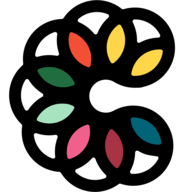
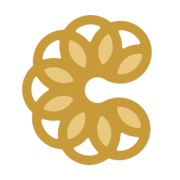
feat(ui): gold circls brand mark across admin, partners, consumer
Redraw the title-bar C-lettermark as an inline SVG with a transparent
background, recolor to the brand gold palette (petals #e7c87d, ring
#c79a3a), and drop the embedded wordmark. Add a shared BrandMark
component per app and use it everywhere the circls brand appears:
sidebars, auth pages, consumer header/footer, and legal-page eyebrow.
Replace the old multicolor favicons with the gold mark (icon.svg +
regenerated apple-icon.png); remove stale icon.png.

diff --git a/apps/admin/components/BrandMark.tsx b/apps/admin/components/BrandMark.tsx
@@ -1,0 +1,34 @@
+// circls brand mark — gold lettermark (two-tone), transparent background.
+// Source: brand C-lettermark recolored to the brand gold palette
+// (petals #e7c87d / gold-500, C-ring #c79a3a / gold-600). No wordmark text.
+export function BrandMark({
+  className,
+  title = 'circls',
+}: {
+  className?: string;
+  title?: string;
+}) {
+  return (
+    <svg
+      xmlns="http://www.w3.org/2000/svg"
+      viewBox="0 0 1080 1080"
+      role="img"
+      aria-label={title}
+      className={className}
+    >
+      <g>
+      <path fill="#e7c87d" d="M664.2,140.4c5.3-3.9,12.8-2.4,16.2,3.1,10.7,17.3,18.1,36.8,21.5,58.1,9.6,60.3-16.3,118.3-62.2,152.5-5.2,3.9-12.8,2.4-16.2-3.1-29.9-48.9-32.3-112.3-.8-164.7,11-18.5,25.2-33.8,41.5-45.8h0Z"/>
+      <path fill="#e7c87d" d="M509.2,369.1c-1.5,6.4-8.2,10.2-14.5,8.1-54.3-18.2-97-65.3-106.6-125.6-3.4-21.2-2.4-42.2,2.4-61.9,1.6-6.5,8.5-10,14.8-7.9,1.6.6,3.3,1.1,4.9,1.7,17.6,6.5,34,16.3,48.6,28.9,32,27.8,51.3,66.4,54.3,108.8,1.1,16.4-.2,32.5-3.9,48Z"/>
+      <path fill="#e7c87d" d="M391,425.2c11.4,11.8,20.8,25,28,39.3,2.9,5.8.2,13-5.9,15.4-53.3,21-116.2,12.4-162.5-27.7-16-13.9-28.8-30.5-38-48.9-2.9-5.9-.2-13.1,5.9-15.5,18.3-7.3,38-11.1,58.3-11.1s1.8,0,2.7,0c42.5.7,82,17.9,111.5,48.4Z"/>
+      <path fill="#e7c87d" d="M208.1,665.8c9.8-18.2,23.2-34.3,39.6-47.7,29.4-23.8,64.7-35.4,99.9-35.4s43.3,4.4,63.4,13.1c6,2.6,8.5,9.8,5.4,15.6-7.6,14-17.4,27-29.3,38.4-30.5,29.5-70.6,45.5-113,44.6-21.6-.4-42.2-5-60.8-13.2-5.9-2.6-8.3-9.8-5.2-15.4h0"/>
+      <path fill="#e7c87d" d="M378.6,823.3c11.6-60,55.8-105.6,110.6-122,6.3-1.9,12.9,2.2,14.2,8.6,11.3,56.1-8.1,116.5-55.5,154.9-16.7,13.5-35.4,23.1-54.8,28.9-6.3,1.9-12.9-2.1-14.2-8.5-4.1-20.1-4.2-41-.2-61.8h0Z"/>
+      <path fill="#e7c87d" d="M690.5,883.6c-4.1,21.1-12.2,40.4-23.4,57.3-3.6,5.5-11.2,6.7-16.3,2.6-15.8-12.6-29.5-28.4-40-47.2-29.7-53.5-25.2-116.8,6.3-164.6,3.6-5.5,11.2-6.7,16.3-2.6,44.8,35.7,68.8,94.5,57.2,154.5Z"/>
+      <path fill="#e7c87d" d="M835.5,803.1c-55.8-21.4-94.2-72.7-101-130.1-.8-6.5,4.3-12.3,10.8-12.5,57.3-1.4,113.5,28.2,143.1,81.7,10.4,18.8,16.7,38.8,18.9,58.9.7,6.5-4.3,12.3-10.9,12.5-20.7.6-41.3-3-61-10.5h0Z"/>
+      <path fill="#e7c87d" d="M844.1,287.2c20.1-6.9,40.8-9.7,61.3-8.5,6.5.4,11.4,6.4,10.5,12.9-2.9,20.1-9.8,39.9-20.9,58.4-21.8,36.4-56.5,62.1-97.7,72.4-15.9,4-32.1,5.4-48,4.5-6.5-.4-11.5-6.4-10.5-12.8,8.5-57.3,48.2-107.1,105.3-126.8h0Z"/>
+      </g>
+      <g>
+      <path fill="#c79a3a" d="M640.1,622l-.4.2c-18.8,10.5-40.7,13.9-61.8,9.8h-.4c0,0-.3-.1-.3-.1-21.2-4-40.2-15.4-53.8-32.2l-.3-.4-.3-.4c-13.5-16.7-20.8-37.6-20.4-59.1v-1c.3-21.5,8.2-42.2,22.3-58.4l.3-.4.3-.4c14.1-16.3,33.5-27,54.7-30.3h.4c0,0,.3-.1.3-.1,21.3-3.5,43.1.8,61.5,11.9l.5.3c35.5,21.3,75.2,32.2,115.6,32.2s36.9-2.3,55.1-6.9c29.2-7.3,56.2-20.1,79.7-37.5,23.5-17.4,43.5-39.5,59.1-65.3,64-106.6,29.2-245.5-77.4-309.4-56.2-33.7-121.3-40-179.7-22.8-3.6,1-7.4.3-10.3-2C637.1,12,574.3-6.5,509.6,3.8c-64.6,10.3-118.6,47.2-152.2,97.9-2.1,3.1-5.5,5-9.2,5.1-3.1,0-6.2.2-9.4.5-60.1,4.3-114.9,31.7-154.4,77.2-39.5,45.5-58.9,103.7-54.7,163.8.2,3.1.5,6.1.9,9.2.4,3.7-1,7.3-3.8,9.8-2.3,2-4.6,4.2-6.8,6.3-43.3,41.9-67.7,98.1-68.7,158.4-1.1,65.5,25.9,125,69.9,166.9,2.7,2.6,4,6.3,3.4,10-.4,3.1-.8,6.2-1.2,9.3-6.2,59.9,11.2,118.7,49.1,165.5,41.3,50.9,100.2,79.1,160.9,82.9,3.7.2,7,2.2,9,5.4,1.6,2.7,3.3,5.3,5.1,7.9,33.8,49.9,84.9,83.7,144.1,95.2,14.4,2.8,28.8,4.1,42.9,4.1,49,0,95.7-16.1,133.7-44.1,3-2.2,6.8-2.8,10.4-1.6,22.9,7.6,47,11.5,71.3,11.5,37,0,74.5-9.1,109.1-28.3,108.8-60.4,148.1-198,87.7-306.7-60.4-108.8-198-148.1-306.7-87.7h0ZM759.1,109.2c27.8,0,55.9,7.3,81.4,22.6,26.4,15.8,46.5,38.1,59.5,63.7,3.8,7.4-1.7,16-10,16.2-22.9.6-45.8,4.7-67.7,12.2-12.3,4.2-24,9.4-35.1,15.6-7.6,4.2-16.8-1.3-16.6-10,.2-12.6-.8-25.5-2.8-38.4-3.8-23.4-11-45.5-21.1-65.6-3.7-7.3,1.7-16.1,10-16.2.8,0,1.6,0,2.4,0h0ZM844.1,286.9c20.1-6.9,40.8-9.7,61.3-8.5,6.5.4,11.4,6.4,10.5,12.9-2.9,20.1-9.8,39.9-20.9,58.4-21.8,36.4-56.5,62.1-97.7,72.4-15.9,4-32.1,5.4-48,4.5-6.5-.4-11.5-6.4-10.5-12.8,8.5-57.3,48.2-107.1,105.3-126.8h0ZM664.2,140.4c5.3-3.9,12.8-2.4,16.2,3.1,10.7,17.3,18.1,36.8,21.5,58.1,9.6,60.3-16.3,118.3-62.2,152.5-5.2,3.9-12.8,2.4-16.2-3.1-29.9-48.9-32.3-112.3-.8-164.7,11-18.5,25.2-33.8,41.5-45.8h0ZM520.1,69.7c8.4-1.4,16.8-2,25.1-2,21.5,0,42.2,4.4,61.2,12.4,7.6,3.2,9.3,13.4,3.1,18.8-16.9,14.9-31.9,32.6-44.1,53-6.7,11.2-12.3,22.7-16.9,34.5-3.1,8-13.7,9.7-19.1,3.1-8.1-9.8-17.1-19-26.9-27.6-17.7-15.4-37.4-27.7-58.3-36.8-7.5-3.3-9.4-13.2-3.2-18.6,21.6-18.8,48.6-32,79-36.8h0ZM390.6,189.6c1.6-6.5,8.5-10,14.8-7.9,1.6.6,3.3,1.1,4.9,1.8,17.6,6.5,34,16.3,48.6,28.9,32,27.8,51.3,66.4,54.3,108.7,1.1,16.4-.2,32.5-3.9,48-1.5,6.4-8.2,10.2-14.5,8.1-54.3-18.2-97-65.3-106.6-125.6-3.4-21.2-2.4-42.2,2.4-61.9h0ZM391,425.2c11.4,11.8,20.8,25,28,39.3,2.9,5.8.2,13-5.9,15.4-53.3,21-116.2,12.4-162.5-27.7-16-13.9-28.8-30.5-38-48.9-2.9-5.9-.2-13.1,5.9-15.5,18.3-7.3,38-11.1,58.3-11.1s1.8,0,2.7,0c42.5.7,82,17.9,111.5,48.4ZM234.7,228.1c19.7-22.6,44.8-38.9,72.8-47.6,7.9-2.4,15.7,4.2,14.5,12.4-3.4,22.3-3.4,45.6.3,69,2.1,12.9,5.2,25.3,9.2,37.3,2.8,8.2-4.2,16.2-12.7,14.6-12.5-2.3-25.3-3.6-38.3-3.9-23.5-.4-46.5,2.8-68.4,9.4-7.9,2.4-15.7-4.1-14.4-12.3,4.6-29,17.2-56.3,36.9-79.1h0ZM159.4,617.2c-4.5,6.8-14.6,6.9-18.9-.1-14.8-24.6-23.1-53.4-22.6-84.2.5-30.1,9.3-58.8,25.3-83.5,4.5-6.9,14.6-6.5,18.9.5,11.9,19.5,26.9,37.2,44.6,52.6,9.9,8.6,20.3,16.1,31.1,22.7,7.4,4.5,7.2,15.2-.3,19.4-11,6.2-21.7,13.4-31.8,21.6-18.2,14.8-33.8,32-46.3,51h0ZM313.1,810.6c-4.5,23-5.3,46.2-2.7,68.8,1,8.2-6.8,14.7-14.6,12-27-9.3-51.9-26.1-71.3-50-18.9-23.3-30.6-50.8-34.2-79.9-1-8.2,6.9-14.8,14.8-12.1,21.4,7.2,44.3,11.3,68,11.7h3.9c11.6,0,23.1-.9,34.5-2.6,8.5-1.3,15.3,7,12.3,15.1-4.5,11.8-8,24.2-10.5,37h0ZM274.2,694.4c-21.6-.4-42.2-5-60.8-13.2-5.9-2.6-8.3-9.8-5.2-15.4h0c9.8-18.2,23.2-34.3,39.6-47.7,29.4-23.8,64.7-35.4,99.9-35.4s43.3,4.4,63.4,13.1c6,2.6,8.5,9.8,5.4,15.6-7.6,14-17.4,27-29.3,38.4-30.5,29.5-70.6,45.5-113,44.6h0ZM378.6,823.3c11.6-60,55.8-105.6,110.6-122,6.3-1.9,12.9,2.2,14.2,8.6,11.3,56.1-8.1,116.5-55.5,154.9-16.7,13.5-35.4,23.1-54.8,28.9-6.3,1.9-12.9-2.1-14.2-8.5-4.1-20.1-4.2-41-.2-61.8h0ZM504.4,1009.4c-29.5-5.7-56.1-19.3-77.6-39.2-6-5.6-4.2-15.8,3.5-18.8,21-8.2,41.2-19.8,59.6-34.8,10.1-8.2,19.4-17.2,27.7-26.7,5.7-6.5,16.2-4.5,19,3.7,4.2,11.9,9.4,23.7,15.8,35.1,11.5,20.8,25.8,39,42.3,54.5,6,5.6,3.9,15.7-3.7,18.7-26.7,10.2-56.5,13.3-86.6,7.5h0ZM690.5,883.6c-4.1,21.1-12.2,40.4-23.4,57.3-3.6,5.5-11.2,6.7-16.3,2.6-15.8-12.6-29.5-28.4-40-47.2-29.7-53.5-25.2-116.8,6.3-164.6,3.6-5.5,11.2-6.7,16.3-2.6,44.8,35.7,68.8,94.5,57.2,154.5ZM826.7,958.1c-26.7,14.9-55.9,21.1-84.5,19.8-8.3-.4-13.5-9.3-9.5-16.6,10.8-19.8,18.8-41.6,23.3-64.9,2.5-12.8,3.8-25.7,4.1-38.3.2-8.6,9.5-13.8,17-9.4,10.9,6.5,22.5,12.1,34.6,16.8,18.6,7.1,53.1,11.7,71.8,13.8,6.5.7,10,7.7,7,13.4-13.9,26.7-35.5,49.8-63.8,65.5h0ZM835.5,803.1c-55.8-21.4-94.2-72.7-101-130.1-.8-6.5,4.3-12.3,10.8-12.5,57.3-1.4,113.5,28.2,143.1,81.7,10.4,18.8,16.7,38.8,18.9,58.9.7,6.5-4.3,12.3-10.9,12.5-20.7.6-41.3-3-61-10.5h0Z"/>
+      </g>
+    </svg>
+  );
+}

diff --git a/apps/consumer/lib/ui/BrandMark.tsx b/apps/consumer/lib/ui/BrandMark.tsx
@@ -1,0 +1,34 @@
+// circls brand mark — gold lettermark (two-tone), transparent background.
+// Source: brand C-lettermark recolored to the brand gold palette
+// (petals #e7c87d / gold-500, C-ring #c79a3a / gold-600). No wordmark text.
+export function BrandMark({
+  className,
+  title = 'circls',
+}: {
+  className?: string;
+  title?: string;
+}) {
+  return (
+    <svg
+      xmlns="http://www.w3.org/2000/svg"
+      viewBox="0 0 1080 1080"
+      role="img"
+      aria-label={title}
+      className={className}
+    >
+      <g>
+      <path fill="#e7c87d" d="M664.2,140.4c5.3-3.9,12.8-2.4,16.2,3.1,10.7,17.3,18.1,36.8,21.5,58.1,9.6,60.3-16.3,118.3-62.2,152.5-5.2,3.9-12.8,2.4-16.2-3.1-29.9-48.9-32.3-112.3-.8-164.7,11-18.5,25.2-33.8,41.5-45.8h0Z"/>
+      <path fill="#e7c87d" d="M509.2,369.1c-1.5,6.4-8.2,10.2-14.5,8.1-54.3-18.2-97-65.3-106.6-125.6-3.4-21.2-2.4-42.2,2.4-61.9,1.6-6.5,8.5-10,14.8-7.9,1.6.6,3.3,1.1,4.9,1.7,17.6,6.5,34,16.3,48.6,28.9,32,27.8,51.3,66.4,54.3,108.8,1.1,16.4-.2,32.5-3.9,48Z"/>
+      <path fill="#e7c87d" d="M391,425.2c11.4,11.8,20.8,25,28,39.3,2.9,5.8.2,13-5.9,15.4-53.3,21-116.2,12.4-162.5-27.7-16-13.9-28.8-30.5-38-48.9-2.9-5.9-.2-13.1,5.9-15.5,18.3-7.3,38-11.1,58.3-11.1s1.8,0,2.7,0c42.5.7,82,17.9,111.5,48.4Z"/>
+      <path fill="#e7c87d" d="M208.1,665.8c9.8-18.2,23.2-34.3,39.6-47.7,29.4-23.8,64.7-35.4,99.9-35.4s43.3,4.4,63.4,13.1c6,2.6,8.5,9.8,5.4,15.6-7.6,14-17.4,27-29.3,38.4-30.5,29.5-70.6,45.5-113,44.6-21.6-.4-42.2-5-60.8-13.2-5.9-2.6-8.3-9.8-5.2-15.4h0"/>
+      <path fill="#e7c87d" d="M378.6,823.3c11.6-60,55.8-105.6,110.6-122,6.3-1.9,12.9,2.2,14.2,8.6,11.3,56.1-8.1,116.5-55.5,154.9-16.7,13.5-35.4,23.1-54.8,28.9-6.3,1.9-12.9-2.1-14.2-8.5-4.1-20.1-4.2-41-.2-61.8h0Z"/>
+      <path fill="#e7c87d" d="M690.5,883.6c-4.1,21.1-12.2,40.4-23.4,57.3-3.6,5.5-11.2,6.7-16.3,2.6-15.8-12.6-29.5-28.4-40-47.2-29.7-53.5-25.2-116.8,6.3-164.6,3.6-5.5,11.2-6.7,16.3-2.6,44.8,35.7,68.8,94.5,57.2,154.5Z"/>
+      <path fill="#e7c87d" d="M835.5,803.1c-55.8-21.4-94.2-72.7-101-130.1-.8-6.5,4.3-12.3,10.8-12.5,57.3-1.4,113.5,28.2,143.1,81.7,10.4,18.8,16.7,38.8,18.9,58.9.7,6.5-4.3,12.3-10.9,12.5-20.7.6-41.3-3-61-10.5h0Z"/>
+      <path fill="#e7c87d" d="M844.1,287.2c20.1-6.9,40.8-9.7,61.3-8.5,6.5.4,11.4,6.4,10.5,12.9-2.9,20.1-9.8,39.9-20.9,58.4-21.8,36.4-56.5,62.1-97.7,72.4-15.9,4-32.1,5.4-48,4.5-6.5-.4-11.5-6.4-10.5-12.8,8.5-57.3,48.2-107.1,105.3-126.8h0Z"/>
+      </g>
+      <g>
+      <path fill="#c79a3a" d="M640.1,622l-.4.2c-18.8,10.5-40.7,13.9-61.8,9.8h-.4c0,0-.3-.1-.3-.1-21.2-4-40.2-15.4-53.8-32.2l-.3-.4-.3-.4c-13.5-16.7-20.8-37.6-20.4-59.1v-1c.3-21.5,8.2-42.2,22.3-58.4l.3-.4.3-.4c14.1-16.3,33.5-27,54.7-30.3h.4c0,0,.3-.1.3-.1,21.3-3.5,43.1.8,61.5,11.9l.5.3c35.5,21.3,75.2,32.2,115.6,32.2s36.9-2.3,55.1-6.9c29.2-7.3,56.2-20.1,79.7-37.5,23.5-17.4,43.5-39.5,59.1-65.3,64-106.6,29.2-245.5-77.4-309.4-56.2-33.7-121.3-40-179.7-22.8-3.6,1-7.4.3-10.3-2C637.1,12,574.3-6.5,509.6,3.8c-64.6,10.3-118.6,47.2-152.2,97.9-2.1,3.1-5.5,5-9.2,5.1-3.1,0-6.2.2-9.4.5-60.1,4.3-114.9,31.7-154.4,77.2-39.5,45.5-58.9,103.7-54.7,163.8.2,3.1.5,6.1.9,9.2.4,3.7-1,7.3-3.8,9.8-2.3,2-4.6,4.2-6.8,6.3-43.3,41.9-67.7,98.1-68.7,158.4-1.1,65.5,25.9,125,69.9,166.9,2.7,2.6,4,6.3,3.4,10-.4,3.1-.8,6.2-1.2,9.3-6.2,59.9,11.2,118.7,49.1,165.5,41.3,50.9,100.2,79.1,160.9,82.9,3.7.2,7,2.2,9,5.4,1.6,2.7,3.3,5.3,5.1,7.9,33.8,49.9,84.9,83.7,144.1,95.2,14.4,2.8,28.8,4.1,42.9,4.1,49,0,95.7-16.1,133.7-44.1,3-2.2,6.8-2.8,10.4-1.6,22.9,7.6,47,11.5,71.3,11.5,37,0,74.5-9.1,109.1-28.3,108.8-60.4,148.1-198,87.7-306.7-60.4-108.8-198-148.1-306.7-87.7h0ZM759.1,109.2c27.8,0,55.9,7.3,81.4,22.6,26.4,15.8,46.5,38.1,59.5,63.7,3.8,7.4-1.7,16-10,16.2-22.9.6-45.8,4.7-67.7,12.2-12.3,4.2-24,9.4-35.1,15.6-7.6,4.2-16.8-1.3-16.6-10,.2-12.6-.8-25.5-2.8-38.4-3.8-23.4-11-45.5-21.1-65.6-3.7-7.3,1.7-16.1,10-16.2.8,0,1.6,0,2.4,0h0ZM844.1,286.9c20.1-6.9,40.8-9.7,61.3-8.5,6.5.4,11.4,6.4,10.5,12.9-2.9,20.1-9.8,39.9-20.9,58.4-21.8,36.4-56.5,62.1-97.7,72.4-15.9,4-32.1,5.4-48,4.5-6.5-.4-11.5-6.4-10.5-12.8,8.5-57.3,48.2-107.1,105.3-126.8h0ZM664.2,140.4c5.3-3.9,12.8-2.4,16.2,3.1,10.7,17.3,18.1,36.8,21.5,58.1,9.6,60.3-16.3,118.3-62.2,152.5-5.2,3.9-12.8,2.4-16.2-3.1-29.9-48.9-32.3-112.3-.8-164.7,11-18.5,25.2-33.8,41.5-45.8h0ZM520.1,69.7c8.4-1.4,16.8-2,25.1-2,21.5,0,42.2,4.4,61.2,12.4,7.6,3.2,9.3,13.4,3.1,18.8-16.9,14.9-31.9,32.6-44.1,53-6.7,11.2-12.3,22.7-16.9,34.5-3.1,8-13.7,9.7-19.1,3.1-8.1-9.8-17.1-19-26.9-27.6-17.7-15.4-37.4-27.7-58.3-36.8-7.5-3.3-9.4-13.2-3.2-18.6,21.6-18.8,48.6-32,79-36.8h0ZM390.6,189.6c1.6-6.5,8.5-10,14.8-7.9,1.6.6,3.3,1.1,4.9,1.8,17.6,6.5,34,16.3,48.6,28.9,32,27.8,51.3,66.4,54.3,108.7,1.1,16.4-.2,32.5-3.9,48-1.5,6.4-8.2,10.2-14.5,8.1-54.3-18.2-97-65.3-106.6-125.6-3.4-21.2-2.4-42.2,2.4-61.9h0ZM391,425.2c11.4,11.8,20.8,25,28,39.3,2.9,5.8.2,13-5.9,15.4-53.3,21-116.2,12.4-162.5-27.7-16-13.9-28.8-30.5-38-48.9-2.9-5.9-.2-13.1,5.9-15.5,18.3-7.3,38-11.1,58.3-11.1s1.8,0,2.7,0c42.5.7,82,17.9,111.5,48.4ZM234.7,228.1c19.7-22.6,44.8-38.9,72.8-47.6,7.9-2.4,15.7,4.2,14.5,12.4-3.4,22.3-3.4,45.6.3,69,2.1,12.9,5.2,25.3,9.2,37.3,2.8,8.2-4.2,16.2-12.7,14.6-12.5-2.3-25.3-3.6-38.3-3.9-23.5-.4-46.5,2.8-68.4,9.4-7.9,2.4-15.7-4.1-14.4-12.3,4.6-29,17.2-56.3,36.9-79.1h0ZM159.4,617.2c-4.5,6.8-14.6,6.9-18.9-.1-14.8-24.6-23.1-53.4-22.6-84.2.5-30.1,9.3-58.8,25.3-83.5,4.5-6.9,14.6-6.5,18.9.5,11.9,19.5,26.9,37.2,44.6,52.6,9.9,8.6,20.3,16.1,31.1,22.7,7.4,4.5,7.2,15.2-.3,19.4-11,6.2-21.7,13.4-31.8,21.6-18.2,14.8-33.8,32-46.3,51h0ZM313.1,810.6c-4.5,23-5.3,46.2-2.7,68.8,1,8.2-6.8,14.7-14.6,12-27-9.3-51.9-26.1-71.3-50-18.9-23.3-30.6-50.8-34.2-79.9-1-8.2,6.9-14.8,14.8-12.1,21.4,7.2,44.3,11.3,68,11.7h3.9c11.6,0,23.1-.9,34.5-2.6,8.5-1.3,15.3,7,12.3,15.1-4.5,11.8-8,24.2-10.5,37h0ZM274.2,694.4c-21.6-.4-42.2-5-60.8-13.2-5.9-2.6-8.3-9.8-5.2-15.4h0c9.8-18.2,23.2-34.3,39.6-47.7,29.4-23.8,64.7-35.4,99.9-35.4s43.3,4.4,63.4,13.1c6,2.6,8.5,9.8,5.4,15.6-7.6,14-17.4,27-29.3,38.4-30.5,29.5-70.6,45.5-113,44.6h0ZM378.6,823.3c11.6-60,55.8-105.6,110.6-122,6.3-1.9,12.9,2.2,14.2,8.6,11.3,56.1-8.1,116.5-55.5,154.9-16.7,13.5-35.4,23.1-54.8,28.9-6.3,1.9-12.9-2.1-14.2-8.5-4.1-20.1-4.2-41-.2-61.8h0ZM504.4,1009.4c-29.5-5.7-56.1-19.3-77.6-39.2-6-5.6-4.2-15.8,3.5-18.8,21-8.2,41.2-19.8,59.6-34.8,10.1-8.2,19.4-17.2,27.7-26.7,5.7-6.5,16.2-4.5,19,3.7,4.2,11.9,9.4,23.7,15.8,35.1,11.5,20.8,25.8,39,42.3,54.5,6,5.6,3.9,15.7-3.7,18.7-26.7,10.2-56.5,13.3-86.6,7.5h0ZM690.5,883.6c-4.1,21.1-12.2,40.4-23.4,57.3-3.6,5.5-11.2,6.7-16.3,2.6-15.8-12.6-29.5-28.4-40-47.2-29.7-53.5-25.2-116.8,6.3-164.6,3.6-5.5,11.2-6.7,16.3-2.6,44.8,35.7,68.8,94.5,57.2,154.5ZM826.7,958.1c-26.7,14.9-55.9,21.1-84.5,19.8-8.3-.4-13.5-9.3-9.5-16.6,10.8-19.8,18.8-41.6,23.3-64.9,2.5-12.8,3.8-25.7,4.1-38.3.2-8.6,9.5-13.8,17-9.4,10.9,6.5,22.5,12.1,34.6,16.8,18.6,7.1,53.1,11.7,71.8,13.8,6.5.7,10,7.7,7,13.4-13.9,26.7-35.5,49.8-63.8,65.5h0ZM835.5,803.1c-55.8-21.4-94.2-72.7-101-130.1-.8-6.5,4.3-12.3,10.8-12.5,57.3-1.4,113.5,28.2,143.1,81.7,10.4,18.8,16.7,38.8,18.9,58.9.7,6.5-4.3,12.3-10.9,12.5-20.7.6-41.3-3-61-10.5h0Z"/>
+      </g>
+    </svg>
+  );
+}

diff --git a/apps/partners/lib/ui/BrandMark.tsx b/apps/partners/lib/ui/BrandMark.tsx
@@ -1,0 +1,34 @@
+// circls brand mark — gold lettermark (two-tone), transparent background.
+// Source: brand C-lettermark recolored to the brand gold palette
+// (petals #e7c87d / gold-500, C-ring #c79a3a / gold-600). No wordmark text.
+export function BrandMark({
+  className,
+  title = 'circls',
+}: {
+  className?: string;
+  title?: string;
+}) {
+  return (
+    <svg
+      xmlns="http://www.w3.org/2000/svg"
+      viewBox="0 0 1080 1080"
+      role="img"
+      aria-label={title}
+      className={className}
+    >
+      <g>
+      <path fill="#e7c87d" d="M664.2,140.4c5.3-3.9,12.8-2.4,16.2,3.1,10.7,17.3,18.1,36.8,21.5,58.1,9.6,60.3-16.3,118.3-62.2,152.5-5.2,3.9-12.8,2.4-16.2-3.1-29.9-48.9-32.3-112.3-.8-164.7,11-18.5,25.2-33.8,41.5-45.8h0Z"/>
+      <path fill="#e7c87d" d="M509.2,369.1c-1.5,6.4-8.2,10.2-14.5,8.1-54.3-18.2-97-65.3-106.6-125.6-3.4-21.2-2.4-42.2,2.4-61.9,1.6-6.5,8.5-10,14.8-7.9,1.6.6,3.3,1.1,4.9,1.7,17.6,6.5,34,16.3,48.6,28.9,32,27.8,51.3,66.4,54.3,108.8,1.1,16.4-.2,32.5-3.9,48Z"/>
+      <path fill="#e7c87d" d="M391,425.2c11.4,11.8,20.8,25,28,39.3,2.9,5.8.2,13-5.9,15.4-53.3,21-116.2,12.4-162.5-27.7-16-13.9-28.8-30.5-38-48.9-2.9-5.9-.2-13.1,5.9-15.5,18.3-7.3,38-11.1,58.3-11.1s1.8,0,2.7,0c42.5.7,82,17.9,111.5,48.4Z"/>
+      <path fill="#e7c87d" d="M208.1,665.8c9.8-18.2,23.2-34.3,39.6-47.7,29.4-23.8,64.7-35.4,99.9-35.4s43.3,4.4,63.4,13.1c6,2.6,8.5,9.8,5.4,15.6-7.6,14-17.4,27-29.3,38.4-30.5,29.5-70.6,45.5-113,44.6-21.6-.4-42.2-5-60.8-13.2-5.9-2.6-8.3-9.8-5.2-15.4h0"/>
+      <path fill="#e7c87d" d="M378.6,823.3c11.6-60,55.8-105.6,110.6-122,6.3-1.9,12.9,2.2,14.2,8.6,11.3,56.1-8.1,116.5-55.5,154.9-16.7,13.5-35.4,23.1-54.8,28.9-6.3,1.9-12.9-2.1-14.2-8.5-4.1-20.1-4.2-41-.2-61.8h0Z"/>
+      <path fill="#e7c87d" d="M690.5,883.6c-4.1,21.1-12.2,40.4-23.4,57.3-3.6,5.5-11.2,6.7-16.3,2.6-15.8-12.6-29.5-28.4-40-47.2-29.7-53.5-25.2-116.8,6.3-164.6,3.6-5.5,11.2-6.7,16.3-2.6,44.8,35.7,68.8,94.5,57.2,154.5Z"/>
+      <path fill="#e7c87d" d="M835.5,803.1c-55.8-21.4-94.2-72.7-101-130.1-.8-6.5,4.3-12.3,10.8-12.5,57.3-1.4,113.5,28.2,143.1,81.7,10.4,18.8,16.7,38.8,18.9,58.9.7,6.5-4.3,12.3-10.9,12.5-20.7.6-41.3-3-61-10.5h0Z"/>
+      <path fill="#e7c87d" d="M844.1,287.2c20.1-6.9,40.8-9.7,61.3-8.5,6.5.4,11.4,6.4,10.5,12.9-2.9,20.1-9.8,39.9-20.9,58.4-21.8,36.4-56.5,62.1-97.7,72.4-15.9,4-32.1,5.4-48,4.5-6.5-.4-11.5-6.4-10.5-12.8,8.5-57.3,48.2-107.1,105.3-126.8h0Z"/>
+      </g>
+      <g>
+      <path fill="#c79a3a" d="M640.1,622l-.4.2c-18.8,10.5-40.7,13.9-61.8,9.8h-.4c0,0-.3-.1-.3-.1-21.2-4-40.2-15.4-53.8-32.2l-.3-.4-.3-.4c-13.5-16.7-20.8-37.6-20.4-59.1v-1c.3-21.5,8.2-42.2,22.3-58.4l.3-.4.3-.4c14.1-16.3,33.5-27,54.7-30.3h.4c0,0,.3-.1.3-.1,21.3-3.5,43.1.8,61.5,11.9l.5.3c35.5,21.3,75.2,32.2,115.6,32.2s36.9-2.3,55.1-6.9c29.2-7.3,56.2-20.1,79.7-37.5,23.5-17.4,43.5-39.5,59.1-65.3,64-106.6,29.2-245.5-77.4-309.4-56.2-33.7-121.3-40-179.7-22.8-3.6,1-7.4.3-10.3-2C637.1,12,574.3-6.5,509.6,3.8c-64.6,10.3-118.6,47.2-152.2,97.9-2.1,3.1-5.5,5-9.2,5.1-3.1,0-6.2.2-9.4.5-60.1,4.3-114.9,31.7-154.4,77.2-39.5,45.5-58.9,103.7-54.7,163.8.2,3.1.5,6.1.9,9.2.4,3.7-1,7.3-3.8,9.8-2.3,2-4.6,4.2-6.8,6.3-43.3,41.9-67.7,98.1-68.7,158.4-1.1,65.5,25.9,125,69.9,166.9,2.7,2.6,4,6.3,3.4,10-.4,3.1-.8,6.2-1.2,9.3-6.2,59.9,11.2,118.7,49.1,165.5,41.3,50.9,100.2,79.1,160.9,82.9,3.7.2,7,2.2,9,5.4,1.6,2.7,3.3,5.3,5.1,7.9,33.8,49.9,84.9,83.7,144.1,95.2,14.4,2.8,28.8,4.1,42.9,4.1,49,0,95.7-16.1,133.7-44.1,3-2.2,6.8-2.8,10.4-1.6,22.9,7.6,47,11.5,71.3,11.5,37,0,74.5-9.1,109.1-28.3,108.8-60.4,148.1-198,87.7-306.7-60.4-108.8-198-148.1-306.7-87.7h0ZM759.1,109.2c27.8,0,55.9,7.3,81.4,22.6,26.4,15.8,46.5,38.1,59.5,63.7,3.8,7.4-1.7,16-10,16.2-22.9.6-45.8,4.7-67.7,12.2-12.3,4.2-24,9.4-35.1,15.6-7.6,4.2-16.8-1.3-16.6-10,.2-12.6-.8-25.5-2.8-38.4-3.8-23.4-11-45.5-21.1-65.6-3.7-7.3,1.7-16.1,10-16.2.8,0,1.6,0,2.4,0h0ZM844.1,286.9c20.1-6.9,40.8-9.7,61.3-8.5,6.5.4,11.4,6.4,10.5,12.9-2.9,20.1-9.8,39.9-20.9,58.4-21.8,36.4-56.5,62.1-97.7,72.4-15.9,4-32.1,5.4-48,4.5-6.5-.4-11.5-6.4-10.5-12.8,8.5-57.3,48.2-107.1,105.3-126.8h0ZM664.2,140.4c5.3-3.9,12.8-2.4,16.2,3.1,10.7,17.3,18.1,36.8,21.5,58.1,9.6,60.3-16.3,118.3-62.2,152.5-5.2,3.9-12.8,2.4-16.2-3.1-29.9-48.9-32.3-112.3-.8-164.7,11-18.5,25.2-33.8,41.5-45.8h0ZM520.1,69.7c8.4-1.4,16.8-2,25.1-2,21.5,0,42.2,4.4,61.2,12.4,7.6,3.2,9.3,13.4,3.1,18.8-16.9,14.9-31.9,32.6-44.1,53-6.7,11.2-12.3,22.7-16.9,34.5-3.1,8-13.7,9.7-19.1,3.1-8.1-9.8-17.1-19-26.9-27.6-17.7-15.4-37.4-27.7-58.3-36.8-7.5-3.3-9.4-13.2-3.2-18.6,21.6-18.8,48.6-32,79-36.8h0ZM390.6,189.6c1.6-6.5,8.5-10,14.8-7.9,1.6.6,3.3,1.1,4.9,1.8,17.6,6.5,34,16.3,48.6,28.9,32,27.8,51.3,66.4,54.3,108.7,1.1,16.4-.2,32.5-3.9,48-1.5,6.4-8.2,10.2-14.5,8.1-54.3-18.2-97-65.3-106.6-125.6-3.4-21.2-2.4-42.2,2.4-61.9h0ZM391,425.2c11.4,11.8,20.8,25,28,39.3,2.9,5.8.2,13-5.9,15.4-53.3,21-116.2,12.4-162.5-27.7-16-13.9-28.8-30.5-38-48.9-2.9-5.9-.2-13.1,5.9-15.5,18.3-7.3,38-11.1,58.3-11.1s1.8,0,2.7,0c42.5.7,82,17.9,111.5,48.4ZM234.7,228.1c19.7-22.6,44.8-38.9,72.8-47.6,7.9-2.4,15.7,4.2,14.5,12.4-3.4,22.3-3.4,45.6.3,69,2.1,12.9,5.2,25.3,9.2,37.3,2.8,8.2-4.2,16.2-12.7,14.6-12.5-2.3-25.3-3.6-38.3-3.9-23.5-.4-46.5,2.8-68.4,9.4-7.9,2.4-15.7-4.1-14.4-12.3,4.6-29,17.2-56.3,36.9-79.1h0ZM159.4,617.2c-4.5,6.8-14.6,6.9-18.9-.1-14.8-24.6-23.1-53.4-22.6-84.2.5-30.1,9.3-58.8,25.3-83.5,4.5-6.9,14.6-6.5,18.9.5,11.9,19.5,26.9,37.2,44.6,52.6,9.9,8.6,20.3,16.1,31.1,22.7,7.4,4.5,7.2,15.2-.3,19.4-11,6.2-21.7,13.4-31.8,21.6-18.2,14.8-33.8,32-46.3,51h0ZM313.1,810.6c-4.5,23-5.3,46.2-2.7,68.8,1,8.2-6.8,14.7-14.6,12-27-9.3-51.9-26.1-71.3-50-18.9-23.3-30.6-50.8-34.2-79.9-1-8.2,6.9-14.8,14.8-12.1,21.4,7.2,44.3,11.3,68,11.7h3.9c11.6,0,23.1-.9,34.5-2.6,8.5-1.3,15.3,7,12.3,15.1-4.5,11.8-8,24.2-10.5,37h0ZM274.2,694.4c-21.6-.4-42.2-5-60.8-13.2-5.9-2.6-8.3-9.8-5.2-15.4h0c9.8-18.2,23.2-34.3,39.6-47.7,29.4-23.8,64.7-35.4,99.9-35.4s43.3,4.4,63.4,13.1c6,2.6,8.5,9.8,5.4,15.6-7.6,14-17.4,27-29.3,38.4-30.5,29.5-70.6,45.5-113,44.6h0ZM378.6,823.3c11.6-60,55.8-105.6,110.6-122,6.3-1.9,12.9,2.2,14.2,8.6,11.3,56.1-8.1,116.5-55.5,154.9-16.7,13.5-35.4,23.1-54.8,28.9-6.3,1.9-12.9-2.1-14.2-8.5-4.1-20.1-4.2-41-.2-61.8h0ZM504.4,1009.4c-29.5-5.7-56.1-19.3-77.6-39.2-6-5.6-4.2-15.8,3.5-18.8,21-8.2,41.2-19.8,59.6-34.8,10.1-8.2,19.4-17.2,27.7-26.7,5.7-6.5,16.2-4.5,19,3.7,4.2,11.9,9.4,23.7,15.8,35.1,11.5,20.8,25.8,39,42.3,54.5,6,5.6,3.9,15.7-3.7,18.7-26.7,10.2-56.5,13.3-86.6,7.5h0ZM690.5,883.6c-4.1,21.1-12.2,40.4-23.4,57.3-3.6,5.5-11.2,6.7-16.3,2.6-15.8-12.6-29.5-28.4-40-47.2-29.7-53.5-25.2-116.8,6.3-164.6,3.6-5.5,11.2-6.7,16.3-2.6,44.8,35.7,68.8,94.5,57.2,154.5ZM826.7,958.1c-26.7,14.9-55.9,21.1-84.5,19.8-8.3-.4-13.5-9.3-9.5-16.6,10.8-19.8,18.8-41.6,23.3-64.9,2.5-12.8,3.8-25.7,4.1-38.3.2-8.6,9.5-13.8,17-9.4,10.9,6.5,22.5,12.1,34.6,16.8,18.6,7.1,53.1,11.7,71.8,13.8,6.5.7,10,7.7,7,13.4-13.9,26.7-35.5,49.8-63.8,65.5h0ZM835.5,803.1c-55.8-21.4-94.2-72.7-101-130.1-.8-6.5,4.3-12.3,10.8-12.5,57.3-1.4,113.5,28.2,143.1,81.7,10.4,18.8,16.7,38.8,18.9,58.9.7,6.5-4.3,12.3-10.9,12.5-20.7.6-41.3-3-61-10.5h0Z"/>
+      </g>
+    </svg>
+  );
+}

diff --git a/apps/partners/app/(protected)/layout.tsx b/apps/partners/app/(protected)/layout.tsx
@@ -6,7 +6,7 @@ import { useAuth } from '@/lib/firebase/auth_context';
 import { useMyTenants } from '@/lib/api/queries';
 import { OrgProvider } from '@/lib/org_context';
 import { ContextBar } from '@/components/ContextBar';
-import { Button } from '@/lib/ui';
+import { Button, BrandMark } from '@/lib/ui';
 
 const NAV_LINKS = [
   { href: '/dashboard', label: 'Dashboard' },
@@ -21,10 +21,9 @@ function Sidebar({ pathname }: { pathname: string }) {
       style={{ zIndex: 40 }}
     >
       {/* Wordmark */}
-      <div className="flex h-14 items-center px-6">
-        <span className="text-lg font-bold tracking-tight text-white">
-          circls
-        </span>
+      <div className="flex h-14 items-center gap-2 px-6">
+        <BrandMark className="h-7 w-7" />
+        <span className="text-lg font-bold tracking-tight text-white">circls</span>
       </div>
 
       {/* Nav */}

diff --git a/apps/consumer/components/legal/LegalLayout.tsx b/apps/consumer/components/legal/LegalLayout.tsx
@@ -1,5 +1,6 @@
 import Link from 'next/link';
 import { Header } from '@/components/Header';
+import { BrandMark } from '@/lib/ui';
 import type { LegalDoc } from '@/lib/legal/types';
 
 const TABS: { slug: string; label: string }[] = [
@@ -13,9 +14,10 @@ export function LegalLayout({ doc }: { doc: LegalDoc }) {
     <div className="min-h-screen">
       <Header />
       <main className="mx-auto max-w-3xl px-4 py-10">
-        <p className="text-[11px] font-bold uppercase tracking-widest text-gold-600">
-          circls · Gibbous Technologies Private Limited
-        </p>
+        <div className="flex items-center gap-2 text-[11px] font-bold uppercase tracking-widest text-gold-600">
+          <BrandMark className="h-4 w-4" />
+          <span>circls · Gibbous Technologies Private Limited</span>
+        </div>
         <h1 className="mt-1 font-display text-3xl font-semibold text-ink">{doc.title}</h1>
         <p className="mt-1 text-sm text-text-secondary">Last updated {doc.updated}</p>
         <p className="mt-1 text-sm text-text-secondary">

diff --git a/apps/consumer/components/Header.tsx b/apps/consumer/components/Header.tsx
@@ -2,7 +2,7 @@
 import Link from 'next/link';
 import { useRouter } from 'next/navigation';
 import { useAuth } from '@/lib/firebase/auth_context';
-import { Button } from '@/lib/ui';
+import { Button, BrandMark } from '@/lib/ui';
 
 export function Header() {
   const { user, loading, signOut } = useAuth();
@@ -11,8 +11,9 @@ export function Header() {
   return (
     <header className="bg-ink text-white">
       <div className="mx-auto flex max-w-6xl items-center justify-between px-4 py-3">
-        <Link href="/" className="text-xl font-bold tracking-tight text-white">
-          cir<span className="text-gold-500">cls</span>
+        <Link href="/" className="flex items-center gap-2 text-xl font-bold tracking-tight text-white">
+          <BrandMark className="h-7 w-7" />
+          <span>circls</span>
         </Link>
         <nav className="flex items-center gap-2 sm:gap-4">
           <Link href="/venues" className="hidden text-sm text-white/80 hover:text-white sm:inline">Venues</Link>

diff --git a/apps/admin/app/(auth)/login/page.tsx b/apps/admin/app/(auth)/login/page.tsx
@@ -2,6 +2,7 @@
 import { useRouter } from 'next/navigation';
 import { type FormEvent, useState } from 'react';
 import { useAuth } from '@/lib/firebase/auth_context';
+import { BrandMark } from '@/components/BrandMark';
 
 export default function LoginPage() {
   const { signInWithEmail } = useAuth();
@@ -27,7 +28,10 @@ export default function LoginPage() {
 
   return (
     <main className="mx-auto flex min-h-screen max-w-sm flex-col justify-center gap-6 p-6">
-      <h1 className="text-2xl font-bold tracking-tight">circls Admin</h1>
+      <div className="flex items-center gap-3">
+        <BrandMark className="h-11 w-11" />
+        <h1 className="text-2xl font-bold tracking-tight">circls Admin</h1>
+      </div>
       <form onSubmit={handleSubmit} className="flex flex-col gap-3">
         <label className="text-sm font-medium" htmlFor="email">
           Email

diff --git a/apps/admin/app/(protected)/layout.tsx b/apps/admin/app/(protected)/layout.tsx
@@ -5,6 +5,7 @@ import { useEffect, useState } from 'react';
 import { useAuth } from '@/lib/firebase/auth_context';
 import { apiFetch } from '@/lib/api/client';
 import type { MeTenant } from '@/lib/api/types';
+import { BrandMark } from '@/components/BrandMark';
 
 const NAV_LINKS = [
   { href: '/dashboard', label: 'Dashboard' },
@@ -20,8 +21,9 @@ function Sidebar({ pathname }: { pathname: string }) {
       className="fixed inset-y-0 left-0 flex w-[220px] flex-col bg-[#0f172a]"
       style={{ zIndex: 40 }}
     >
-      <div className="flex h-14 items-center px-6">
-        <span className="text-lg font-bold tracking-tight text-white">circls admin</span>
+      <div className="flex h-14 items-center gap-2 px-6">
+        <BrandMark className="h-7 w-7" />
+        <span className="text-lg font-bold tracking-tight text-white">admin</span>
       </div>
       <nav className="flex flex-1 flex-col gap-0.5 px-3 pt-2">
         {NAV_LINKS.map(({ href, label }) => {

diff --git a/apps/consumer/components/Footer.tsx b/apps/consumer/components/Footer.tsx
@@ -1,4 +1,5 @@
 import Link from 'next/link';
+import { BrandMark } from '@/lib/ui';
 
 const LINKS = [
   { href: '/venues', label: 'Venues' },
@@ -13,8 +14,9 @@ export function Footer() {
     <footer className="bg-ink-deep text-white/70">
       <div className="mx-auto max-w-6xl px-4 py-8">
         <div className="flex flex-wrap items-center justify-between gap-4">
-          <Link href="/" className="font-display text-xl text-white">
-            Cir<span className="text-gold-500">cls</span>
+          <Link href="/" className="flex items-center gap-2 font-display text-xl text-white">
+            <BrandMark className="h-7 w-7" />
+            <span>circls</span>
           </Link>
           <nav aria-label="Footer" className="flex flex-wrap gap-x-5 gap-y-2 text-sm">
             {LINKS.map((l) => (

diff --git a/apps/partners/app/(auth)/login/page.tsx b/apps/partners/app/(auth)/login/page.tsx
@@ -3,6 +3,7 @@ import Link from 'next/link';
 import { useRouter } from 'next/navigation';
 import { type FormEvent, useState } from 'react';
 import { useAuth } from '@/lib/firebase/auth_context';
+import { BrandMark } from '@/lib/ui';
 
 export default function LoginPage() {
   const { signInWithEmail } = useAuth();
@@ -28,7 +29,10 @@ export default function LoginPage() {
 
   return (
     <main className="mx-auto flex min-h-screen max-w-sm flex-col justify-center gap-6 p-6">
-      <h1 className="text-2xl font-bold tracking-tight">circls Partner Portal</h1>
+      <div className="flex items-center gap-3">
+        <BrandMark className="h-11 w-11" />
+        <h1 className="text-2xl font-bold tracking-tight">circls Partner Portal</h1>
+      </div>
       <form onSubmit={handleSubmit} className="flex flex-col gap-3">
         <label className="text-sm font-medium" htmlFor="email">Email</label>
         <input

diff --git a/apps/consumer/lib/ui/index.ts b/apps/consumer/lib/ui/index.ts
@@ -12,3 +12,5 @@ export type { BadgeProps, BadgeTone } from './Badge';
 
 export { StatusPill } from './StatusPill';
 export type { StatusPillProps } from './StatusPill';
+
+export { BrandMark } from './BrandMark';

diff --git a/apps/partners/app/(auth)/signup/page.tsx b/apps/partners/app/(auth)/signup/page.tsx
@@ -3,6 +3,7 @@ import Link from 'next/link';
 import { useRouter } from 'next/navigation';
 import { type FormEvent, useState } from 'react';
 import { useAuth } from '@/lib/firebase/auth_context';
+import { BrandMark } from '@/lib/ui';
 
 /** Friendly copy for the Firebase signup error codes we expect. */
 function signupErrorMessage(err: unknown): string {
@@ -43,6 +44,7 @@ export default function SignupPage() {
 
   return (
     <main className="mx-auto flex min-h-screen max-w-sm flex-col justify-center gap-6 p-6">
+      <BrandMark className="h-11 w-11" />
       <div className="flex flex-col gap-1">
         <h1 className="text-2xl font-bold tracking-tight">Create your circls account</h1>
         <p className="text-sm text-slate-500">